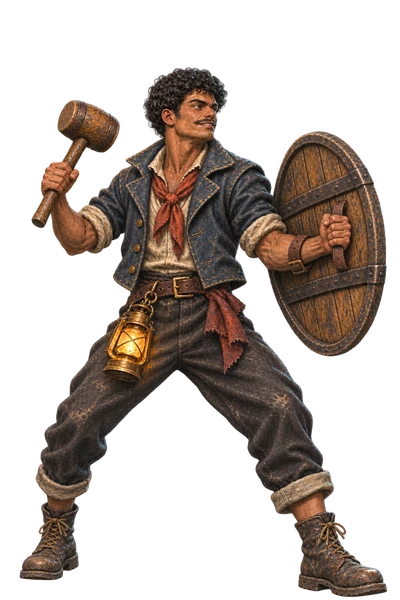
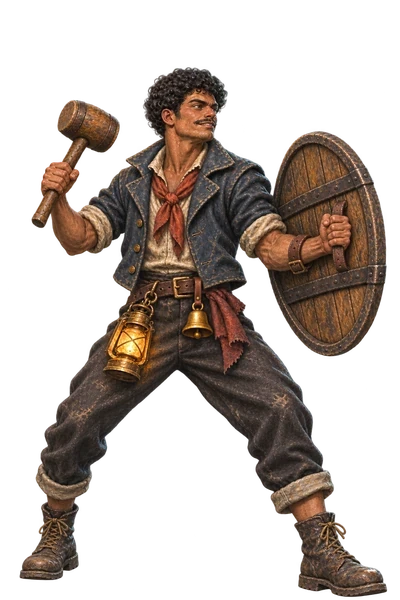
v0.61.1: give Mateo a bell on his belt and point the Bell slot at it

Changed region(s): [[0.45, 0.45, 0.57, 0.57]]

diff --git a/js/data.js b/js/data.js
@@ -356,7 +356,7 @@
       desc: 'Your first Bail or Stir each fight costs 0 Light.' },
     mateo: { name: 'Mateo', title: 'Mateo, the Cooper', looks: { shore: 'mateo', fight: 'mateo_guard', dive: 'mateo_suit' },
       weapon: { name: 'Mallet', strike: 'Mallet Strike', refit: 'Guarded Strike', art: 'c_mallet', icon: 'slot_mallet' },
-      points: { harpoon: [0.19, 0.51], ditty: [0.35, 0.51], coat: [0.64, 0.28], bell: [0.53, 0.41], pocket: [0.65, 0.49] },
+      points: { harpoon: [0.19, 0.51], ditty: [0.35, 0.51], coat: [0.64, 0.28], bell: [0.52, 0.48], pocket: [0.64, 0.57] },
       dread: 'splitcask', level: 1, final: 'lasthoop', skill: 'Shield Bash',
       desc: 'Spend 4 Ward to deal 6 damage. Bash costs 0 Light and uses one of your Bail or Stir actions. Once per turn.',
       quiet: 'The last hoop drops. You lift the lid and wait. Only water comes out. You take the loose end of the line home to tell Hester who held the other end.' },

diff --git a/js/version.js b/js/version.js
@@ -5,8 +5,11 @@
 (function () {
   'use strict';
   const BL = (globalThis.BL = globalThis.BL || {});
-  BL.VERSION = '0.61.0';
+  BL.VERSION = '0.61.1';
   BL.CHANGELOG = [
+    { v: '0.61.1', date: '2026-11-23', items: [
+      'Mateo now carries a brass bell on his belt, in the Workshop, in Pack and in a fight above water. The Bell slot’s line points at it and no longer at his lantern.',
+    ] },
     { v: '0.61.0', date: '2026-11-23', items: [
       'Kit now shows as icons in its slots and no longer changes a keeper’s picture. The picture shows who you play and the outfit you chose, the same in the Workshop, in Pack and in a fight. The Cork Vest and the Shell Gorget are no longer painted on Wren. They work as before.',
       'A diving dress is carried until the Belfry. Above water you fight in your outfit, and under the sea every keeper wears their diving dress. With a dress packed, Pack shows that picture beside the outfits.',

diff --git a/GAME_NOTES.md b/GAME_NOTES.md
@@ -2624,7 +2624,8 @@ The user asked for the Pack and kit pictures and text to be consistent, and for 
 - **The Rig place** reads "What you wear over your clothes, or the dress that takes you under the sea", and empty it is "Nothing extra". The oilskin lore stays in the World tab.
 - **What was given up.** The vest and gorget no longer show on Wren (the user asked for that in v0.59.0), and in ochre the dress no longer shows above water (the user's v0.26.1 call).
 - **Provisional (the agent's call): the Plated Dress has no picture of its own.** The proposal offered one dive picture for each keeper, or keeping Wren's plated picture and painting Mateo's. The first was built, since it is the rule with no exceptions. To bring the plated picture back, move `keeper_plated.webp` back and let `looks` name a picture for each dress; Mateo would then need one painted.
-- **Open:** Mateo's shore picture has no bell, so the Bell slot's line points at his lantern. The kit screens draw a line to a place on the picture even though the picture never shows the piece: do the lines still earn their place?
+- **Mateo's bell (v0.61.1, 2026-11-23).** His shore and fight pictures had no bell, so the Bell slot's line pointed at his lantern. Both now show a small brass bell on his belt, between the buckle and the red rag, like the one in his dive picture. They are Codex edits of each picture (two variants each, A used; the raw edits are `assets-src/units/mateo_bell-edit-*.png` and `mateo_guard_bell-edit-*.png`), with only the bell's rectangle pasted back by `tools/wren-art.py compose --base`. His Bell line points at the bell. His Pocket line moved from the rag to his trouser hip, because the Bell line now ran through its dot. His Ditty Bag line still points at his lantern, since he has no bag in the picture.
+- **Open:** The kit screens draw a line to a place on the picture even though the picture never shows the piece: do the lines still earn their place?
 
 ### Keeper and costume drafts (2026-11-14; not in the game)
 
